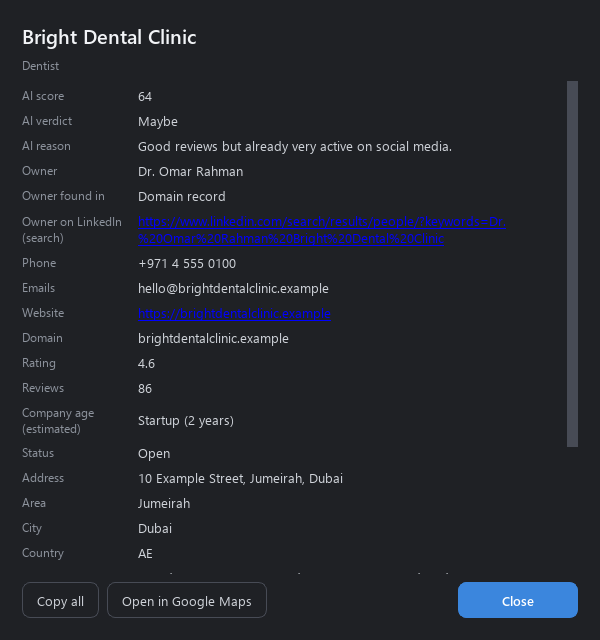
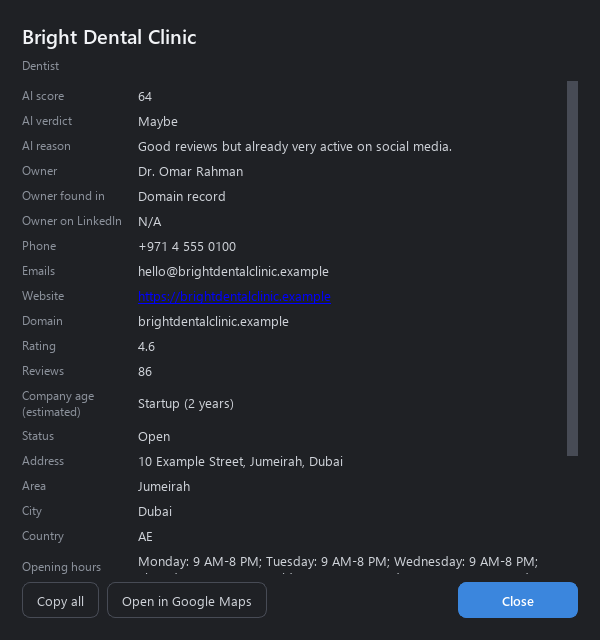
LinkedIn from the business's website, N/A when it doesn't link one
The company page is the /company/ link on the website and the owner's
profile is a /in/ link there (matched to the owner's surname, or the only
one). The people-search links are gone: free search engines block scripted
searches, so the website is the only reliable source.

diff --git a/app/core/enrich.py b/app/core/enrich.py
@@ -18,10 +18,11 @@ import html
 import re
 import threading
 from datetime import date, datetime
-from urllib.parse import quote, unquote, urljoin, urlsplit
+from urllib.parse import unquote, urljoin, urlsplit
 
 import httpx
 
+from app.core.places import NOT_FOUND
 from app.core.scraper import USER_AGENT
 
 STARTUP_YEARS = 3
@@ -35,7 +36,7 @@ SOCIAL = {
         r"(?!sharer|share|plugins|dialog|tr[/?]|login|groups/?$)[\w.\-/?=%]+", re.I),
     "instagram": re.compile(r"(?:https?:)?//(?:www\.)?instagram\.com/(?!p/|explore|accounts)[\w.]+",
                             re.I),
-    "linkedin": re.compile(r"(?:https?:)?//(?:[a-z]{2,3}\.)?linkedin\.com/(?:company|in|school)/"
+    "linkedin": re.compile(r"(?:https?:)?//(?:[a-z]{2,3}\.)?linkedin\.com/(?:company|school)/"
                            r"[\w\-%.]+", re.I),
     "twitter": re.compile(r"(?:https?:)?//(?:www\.)?(?:twitter|x)\.com/"
                           r"(?!intent|share|home|search|hashtag)\w+", re.I),
@@ -43,6 +44,8 @@ SOCIAL = {
                           re.I),
     "tiktok": re.compile(r"(?:https?:)?//(?:www\.)?tiktok\.com/@[\w.]+", re.I),
 }
+# A person's profile, as a small business often links its owner's or its team's
+PROFILE = re.compile(r"(?:https?:)?//(?:[a-z]{2,3}\.)?linkedin\.com/in/[\w\-%.]+", re.I)
 EMAIL = re.compile(r"[A-Za-z0-9._%+-]+@[A-Za-z0-9.-]+\.[A-Za-z]{2,24}")
 CFEMAIL = re.compile(r'data-cfemail="([0-9a-fA-F]+)"')
 HREF = re.compile(r'href\s*=\s*["\']([^"\'#]+)', re.I)
@@ -161,10 +164,24 @@ def registrant(rdap: dict) -> str | None:
     return None
 
 
-def linkedin_search(business: str, owner: str | None) -> str:
-    """A LinkedIn people search to check by hand (LinkedIn blocks automatic reading)."""
-    words = f"{owner} {business}" if owner else f"{business} owner"
-    return "https://www.linkedin.com/search/results/people/?keywords=" + quote(words)
+def find_profiles(page: str) -> list[str]:
+    """The LinkedIn profiles of people a page links to, in page order."""
+    links = (match.group(0).rstrip("/.\\") for match in PROFILE.finditer(page))
+    return list(dict.fromkeys("https:" + link if link.startswith("//") else link
+                              for link in links))
+
+
+def owner_profile(profiles: list[str], owner: str | None) -> str:
+    """The owner's profile among those the website links: the one whose address has the
+    owner's surname, or the only one there is. LinkedIn blocks automatic reading and free
+    search engines block automatic searching (tested 2026-10-17), so the website is the
+    only source; anything else is NOT_FOUND."""
+    if owner:
+        surname = owner.split()[-1].lower()
+        named = [link for link in profiles if surname in unquote(link).lower()]
+        if named:
+            return named[0]
+    return profiles[0] if len(profiles) == 1 else NOT_FOUND
 
 
 def social_network(url: str) -> str | None:
@@ -274,6 +291,7 @@ class Enricher:
     def crawl(self, url: str) -> dict:
         emails: list[str] = []
         socials: dict[str, str] = {}
+        profiles: list[str] = []
         owner = None
         queue, seen = [url], set()
         while queue and len(seen) < MAX_PAGES:
@@ -286,10 +304,11 @@ class Enricher:
             emails += [e for e in find_emails(page) if e not in emails]
             for network, link in find_socials(page).items():
                 socials.setdefault(network, link)
+            profiles += [link for link in find_profiles(page) if link not in profiles]
             owner = owner or find_owner(page)
             if page_url == url:
                 queue += contact_links(page, url)
-        return {"emails": emails, "socials": socials, "owner": owner}
+        return {"emails": emails, "socials": socials, "profiles": profiles, "owner": owner}
 
     def domain_created(self, domain: str) -> tuple[date | None, str]:
         """When the domain was registered, else first archived; and which of the two."""
@@ -334,6 +353,8 @@ class Enricher:
         """The new fields for one lead (does not modify it)."""
         fields: dict = {"enriched": True}
         website = lead.get("website") or ""
+        if PROFILE.match(website):  # a freelancer's own profile given as the website
+            return {**fields, "owner_linkedin": website} if find_owner else fields
         network = social_network(website)
         if network:
             # A Facebook or Instagram page given as the website: file it under that
@@ -342,7 +363,7 @@ class Enricher:
             return fields
         if not website:
             return fields
-        found = {"owner": None}
+        found = {"owner": None, "profiles": []}
         if find_contacts:
             found = self.crawl(website)
             domain = (lead.get("domain") or urlsplit(website).netloc).lower()
@@ -350,7 +371,7 @@ class Enricher:
             emails = own + [e for e in found["emails"] if e not in own]
             if emails:
                 fields["emails"] = ", ".join(emails[:MAX_EMAILS])
-            fields.update(found["socials"])
+            fields.update({"linkedin": NOT_FOUND, **found["socials"]})
         domain = lead.get("domain") or urlsplit(website).netloc
         if domain:
             fields.update(age_fields(*self.domain_created(domain)) or {"company_age": "Unknown"})
@@ -359,6 +380,5 @@ class Enricher:
                 fields.update(owner_name=found["owner"], owner_source="Website")
             elif self._registrants.get(domain):
                 fields.update(owner_name=self._registrants[domain], owner_source="Domain record")
-            fields["owner_linkedin"] = linkedin_search(lead.get("name") or domain,
-                                                       fields.get("owner_name"))
+            fields["owner_linkedin"] = owner_profile(found["profiles"], fields.get("owner_name"))
         return fields

diff --git a/tests/test_core.py b/tests/test_core.py
@@ -239,9 +239,10 @@ def test_best_leads_are_balanced_over_searches(fresh_db, monkeypatch):
 def test_quality_and_balanced_order():
     bare = {"place_id": "a"}
     full = {"phone": "1", "website": "x", "emails": "a@x", "rating": 4.6, "reviews": 1000,
-            "claimed": "Yes", "address": "1 Road", "hours": "Mon: 9-5", "facebook": "f",
-            "instagram": "i", "linkedin": "l"}
+            "claimed": "Yes", "address": "1 Road", "hours": "Mon: 9-5", "facebook": "https://f",
+            "instagram": "https://i", "linkedin": "https://l"}
     assert searches.quality(bare) == 0 and searches.quality(full) == 100
+    assert searches.quality({**full, "linkedin": places.NOT_FOUND}) == 99
     assert searches.quality({"address": places.SERVICE_AREA}) == 0
     leads = [{"query": q, "quality": s} for q, s in
              [("a", 90), ("a", 80), ("a", 70), ("b", 10), ("b", 5)]]
@@ -337,6 +338,22 @@ def test_find_socials_skips_share_buttons():
         "linkedin": "https://www.linkedin.com/company/acme-dental",
         "twitter": "https://x.com/acme",
     }
+
+
+def test_linkedin_from_the_website():
+    from app.core import enrich
+
+    page = ('<a href="https://ae.linkedin.com/in/omar-farsi-123/">Omar</a>'
+            '<a href="//www.linkedin.com/in/jane-doe">Jane</a>'
+            '<a href="https://www.linkedin.com/company/acme">Acme</a>')
+    profiles = enrich.find_profiles(page)
+    assert profiles == ["https://ae.linkedin.com/in/omar-farsi-123",
+                        "https://www.linkedin.com/in/jane-doe"]
+    assert enrich.find_socials(page)["linkedin"] == "https://www.linkedin.com/company/acme"
+    assert enrich.owner_profile(profiles, "Omar Farsi") == profiles[0]
+    assert enrich.owner_profile(profiles, None) == "N/A"  # two people, no name to tell them apart
+    assert enrich.owner_profile(profiles[1:], None) == profiles[1]
+    assert enrich.owner_profile([], "Omar Farsi") == "N/A"
 
 
 def test_company_age():

diff --git a/tools/screenshot.py b/tools/screenshot.py
@@ -20,7 +20,6 @@ from PyQt6.QtCore import QPoint, Qt, QTimer  # noqa: E402
 from PyQt6.QtGui import QPainter  # noqa: E402
 from PyQt6.QtWidgets import QApplication  # noqa: E402
 
-from app.core.enrich import linkedin_search  # noqa: E402
 
 FIRST = ["Bright", "Harbour", "Cedar", "Palm", "Summit", "Blue Lagoon", "Golden", "Oakwood",
          "Marina", "Desert Rose", "Northside", "Riverside", "Crescent", "Lakeview", "Parkside",
@@ -80,7 +79,9 @@ def demo_leads(count: int = 60) -> list[dict]:
         if i % 3 != 2:
             owner = OWNERS[i % len(OWNERS)]
             leads[-1].update(owner_name=owner, owner_source="Website" if i % 4 else
-                             "Domain record", owner_linkedin=linkedin_search(name, owner))
+                             "Domain record", owner_linkedin="https://www.linkedin.com/in/"
+                             + owner.removeprefix("Dr. ").lower().replace(" ", "-") + "-example"
+                             if i % 4 else "N/A")
     return leads
 
 

diff --git a/app/core/exporter.py b/app/core/exporter.py
@@ -10,7 +10,7 @@ import csv
 import re
 from pathlib import Path
 
-from app.core.places import FIELDS
+from app.core.places import FIELDS, NOT_FOUND
 
 LINK_COLUMNS = {"website", "maps_url", "reviews_url", "facebook", "instagram", "linkedin",
                 "twitter", "youtube", "tiktok", "photo", "owner_linkedin"}
@@ -128,7 +128,7 @@ def _crm_value(lead: dict, key: str):
         return (str(lead.get("emails") or "").split(",")[0]).strip()
     if key == "street" and not lead.get("street"):
         return lead.get("address")  # some countries' addresses have no street part
-    return lead.get(key)
+    return None if lead.get(key) == NOT_FOUND else lead.get(key)  # CRMs expect a link there
 
 
 def to_crm(leads: list[dict], path: Path, crm: str) -> int:

diff --git a/app/ui/pages/search.py b/app/ui/pages/search.py
@@ -209,8 +209,8 @@ class SearchPage(Page):
             "LinkedIn...) and estimate company age", last["find_emails"])
         extra.add(self.find_emails)
         self.find_owner = checkbox(
-            "Look for the owner's name (on the website and in the domain record) and add a "
-            "LinkedIn search link", last["find_owner"])
+            "Look for the owner: their name (on the website or in the domain record) and their "
+            "LinkedIn profile, if the website links it", last["find_owner"])
         extra.add(self.find_owner)
         self.smart = checkbox("Smart mode: let AI check every lead against your ideal customer",
                               last["smart"])

diff --git a/app/core/places.py b/app/core/places.py
@@ -22,7 +22,7 @@ FIELDS = [
     ("category", "Category"),
     ("owner_name", "Owner"),
     ("owner_source", "Owner found in"),
-    ("owner_linkedin", "Owner on LinkedIn (search)"),
+    ("owner_linkedin", "Owner on LinkedIn"),
     ("phone", "Phone"),
     ("phone_international", "Phone (international)"),
     ("emails", "Emails"),
@@ -65,6 +65,7 @@ FIELDS = [
 ]
 HEADERS = dict(FIELDS)
 SERVICE_AREA = "Service area (address hidden on Google)"
+NOT_FOUND = "N/A"  # looked for on the business's website and not there (LinkedIn columns)
 # How the columns are grouped where the user picks them (New search, Leads > Columns).
 # Every key of FIELDS appears exactly once.
 FIELD_GROUPS = [

diff --git a/app/core/search.py b/app/core/search.py
@@ -152,7 +152,7 @@ def why_not(lead: dict, options: dict) -> str | None:
 # --- picking the best -------------------------------------------------------
 def quality(lead: dict) -> int:
     """0-100 from the facts alone: how reachable and established the business looks."""
-    socials = sum(bool(lead.get(k)) for k in
+    socials = sum(str(lead.get(k) or "").startswith("http") for k in
                   ("facebook", "instagram", "linkedin", "twitter", "youtube", "tiktok"))
     rating, reviews = lead.get("rating") or 0, lead.get("reviews") or 0
     points = (15 * bool(lead.get("phone")) + 15 * bool(lead.get("website"))

diff --git a/HANDOVER.md b/HANDOVER.md
@@ -23,10 +23,8 @@ with the AskUserQuestion form, not as a text list (their preference).
   and Leads > Columns become select/unselect buttons (selected = highlighted like Settings'
   Theme buttons, unselected = greyed) instead of switches. Switches stay everywhere else
   (country/city lists, must-have filters, hours)
-- [ ] **C. LinkedIn**: drop the people-search links. Show the company's LinkedIn page when its
-  website links to it, else "N/A"; for the owner, look up a real linkedin.com/in/ profile with a
-  web search ("owner + company site:linkedin.com/in"), else "N/A" (user chose this knowing it is
-  slower and can be rate limited)
+- [x] **C. LinkedIn**: people-search links dropped; company page and owner's profile come from
+  the business's website, else "N/A" (see the "Owner's name" row)
 - Unknown company ages (many .ae sites: the registry hides dates and Wayback often has
   nothing) are **kept** for Startups/Established since 2026-10-17 (user's choice), marked
   "Unknown" and ranked after known ages (`pick()` key in `workers/scrape.py`)
@@ -114,7 +112,7 @@ theme module, sidebar, cards, status bar, worker pattern.
 | AI keys | **No built-in API key anywhere** (user's explicit rule, 2026-10-17). Every provider uses only the key the user enters on the Smart mode page, stored DPAPI-encrypted. The only `api_key=` literal is `run.py`'s self-test sending "test" to a closed local port. Keep the official `anthropic` SDK (user said keep it; it costs ~5 MB) |
 | Search around a place (0.2.1) | Options `where` = cities / area, `area_place`, `area_km`, `area_lat/lng`. The place is found with `scraper.locate()` (Google centres the map on it) when Start is pressed, and the point is saved in the options so resume/run again don't look it up again. `geo.radius_cells` covers the circle with map views at most 5 km wide (max 8 x 8); each query is "niche near Place @lat,lng,camera" and `scraper.search` sends only the niche with the map put there. Camera distance = view size / 0.23 (measured). Google pages outward past the view, so paging stops at the first page with nothing inside the view (measured: 102 s -> 7 s for 3 km, 111 -> 109 leads). `passes()` keeps only leads inside the circle; the country filter is off in area mode |
 | Filters added 0.2.1 | `max_rating` (0 = none), `max_reviews` (-1 = none; 0 means no reviews), `website` any/yes/no (replaces `require_website`, converted in `options_with_defaults`), opening hours `open_now`, `open_24h`, `open_weekends`, `open_at` + `open_day` (0 = Monday) + `open_time`. Hours are parsed from Google's English text in `core/hours.py`, in the lead's own time zone; leads without hours are left out while any hours filter is on. Not wanted (user said no): exclude keywords, unclaimed-only, language choice, dedupe by phone/website, email verification, review text, notes/tags, scheduling. Deleted leads can come back in later searches (user's choice) |
-| Owner's name (0.2.1) | Optional (`find_owner`, needs "Visit each website"). `enrich.find_owner`: schema.org "founder", then "Founder: Name" / "Name, Owner" / "founded by Name" in page text (role words in EN/DE/FR/ES), rejecting heading words. Else the RDAP registrant unless hidden for privacy. Always adds `owner_linkedin`, a LinkedIn people-search link (LinkedIn blocks automatic reading). Columns `owner_name`, `owner_source`, `owner_linkedin`. Live: 1 of 15 Dubai dentists had a name, so expect few |
+| Owner's name (0.2.1) | Optional (`find_owner`, needs "Visit each website"). `enrich.find_owner`: schema.org "founder", then "Founder: Name" / "Name, Owner" / "founded by Name" in page text (role words in EN/DE/FR/ES), rejecting heading words. Else the RDAP registrant unless hidden for privacy. `owner_linkedin` (since 2026-10-17) is a linkedin.com/in/ profile the website links (`enrich.find_profiles`): the one whose address has the owner's surname, else the only one, else `places.NOT_FOUND` ("N/A"); a profile given as the Maps website counts too. The company `linkedin` column is a /company/ or /school/ link from the site, else "N/A" (only when the site was crawled). **A web search for profiles was tested and dropped** (2026-10-17, from the UAE): DuckDuckGo html/lite answer 202 bot challenges, Bing serves junk results to scripts, Startpage captchas, Brave 429, Yahoo 500, Ecosia 403, Mojeek has no LinkedIn profiles; searching Google itself would risk rate-limiting Maps. User chose website-only. Live, 20 Dubai agencies: 16 company pages, 1 owner profile. `quality` and CRM exports treat "N/A" as empty. Columns `owner_name`, `owner_source`, `owner_linkedin`. Live: 1 of 15 Dubai dentists had a name, so expect few |
 | Exports (0.2.1) | Leads page "More exports": CSV, CSV for HubSpot / Pipedrive / Zoho CRM / Salesforce (`exporter.CRMS`: each CRM's company/account column names), "Copy for Google Sheets" (tab-separated text on the clipboard + opens sheets.new; values starting with = + - @ get a leading ' so Sheets keeps them as text). A direct Google Sheets upload was rejected: it needs OAuth and a Google Cloud project |
 | Proxies (0.2.1) | Settings > Proxies: one per line (host:port, user:pass@host:port, host:port:user:pass, http/https/socks5/socks5h://), saved encrypted (`credentials`, name "proxies"), "Test them" checks each against google.com/generate_204. Only Google Maps searches use them (`MapsClient` keeps one httpx client per proxy and takes turns; a proxy that is limited or doesn't answer is skipped; `Blocked` only when none worked and at least one was limited). Website visits and AI go direct. Needs `httpx[socks]` (socksio, bundled); the self-test checks it. Tested live through local HTTP and SOCKS5 proxies |
 | Switches | Every QCheckBox and checklist item is drawn as an on/off switch by the stylesheet (`theme.switch_knob` SVGs), so pages still use `checkbox()`. **Except** "Details to include" and Leads > Columns (user, 2026-10-17: a switch beside each word was confusing): those use `common.select_button()`, a checkable button with the same isChecked/setChecked/toggled API, styled by `pick="on"/"off"` (selected = accent fill, unselected = greyed, selected but disabled = accent outline) |
@@ -268,6 +266,10 @@ python tools/make_icons.py    # after editing assets/logo.svg
   Esc closes; details buttons change the saved fields; README screenshots refreshed (rendered
   offscreen with `QT_QPA_PLATFORM=offscreen QT_QPA_FONTDIR=C:/Windows/Fonts`, no window
   shown). Not tested: the picker with a real mouse and keyboard on the user's machine.
+- 2026-10-17: Milestone C: LinkedIn from the website, "N/A" when not linked. Tested: 31 unit
+  tests; 20 live Dubai agencies (16 company pages, 1 owner profile, the right person). Seen
+  but not fixed (older code): `find_owner` gave "Middle East Golf" and "Code Quality" as owner
+  names on 2 of those 20 sites.
 - 2026-10-17: README rewritten in typencut's style with 10 new screenshots, MIT LICENSE, third-party
   notices and license files bundled in the download (PyQt6 is GPL v3), PRIVACY, DISCLAIMER and
   SECURITY pages, Settings > About. On-screen "tick" wording changed to match the switches.

diff --git a/README.md b/README.md
@@ -52,7 +52,8 @@ subscription, nothing to pay: everything runs on your own computer.
   addresses first and throws away template ones such as `you@example.com`.
 - **The owner's name (optional).** It looks for the owner or founder on the website ("Founder:
   Jane Smith", "Jane Smith, Owner", the page's business data) and in the domain's registration
-  record, and adds a ready-made **LinkedIn search link** for every lead so you can check.
+  record, plus the owner's **LinkedIn profile** when the website links it. The company's
+  LinkedIn page comes from its website too; "N/A" means the website doesn't link one.
 - **Startup or established.** Google Maps doesn't record when a company was founded, so
   GeoHarvest estimates it from when the business's website was registered or first appeared
   online. Filter for **startups** (under 3 years) or **established** companies.
@@ -108,7 +109,7 @@ subscription, nothing to pay: everything runs on your own computer.
 
 | Everything about one business | Columns: select the details to show |
 | --- | --- |
-| <img src="docs/screenshots/lead.png" alt="The details window for a dental clinic: AI score and reason, owner and where it was found, a LinkedIn search link, phone, email, website, rating, company age, opening hours and address" width="380" /> | <img src="docs/screenshots/columns.png" alt="The Columns window: select buttons grouped into Business, Owner, Contact, Social media, Reviews, Location, Company age, Smart mode and Other" width="440" /> |
+| <img src="docs/screenshots/lead.png" alt="The details window for a dental clinic: AI score and reason, owner and where it was found, the owner's LinkedIn profile, phone, email, website, rating, company age, opening hours and address" width="380" /> | <img src="docs/screenshots/columns.png" alt="The Columns window: select buttons grouped into Business, Owner, Contact, Social media, Reviews, Location, Company age, Smart mode and Other" width="440" /> |
 
 <p align="center"><img src="docs/screenshots/exports.png" alt="The More exports menu: CSV file, CSV for HubSpot, Pipedrive, Zoho CRM and Salesforce, and Copy for Google Sheets" width="860" /></p>
 
